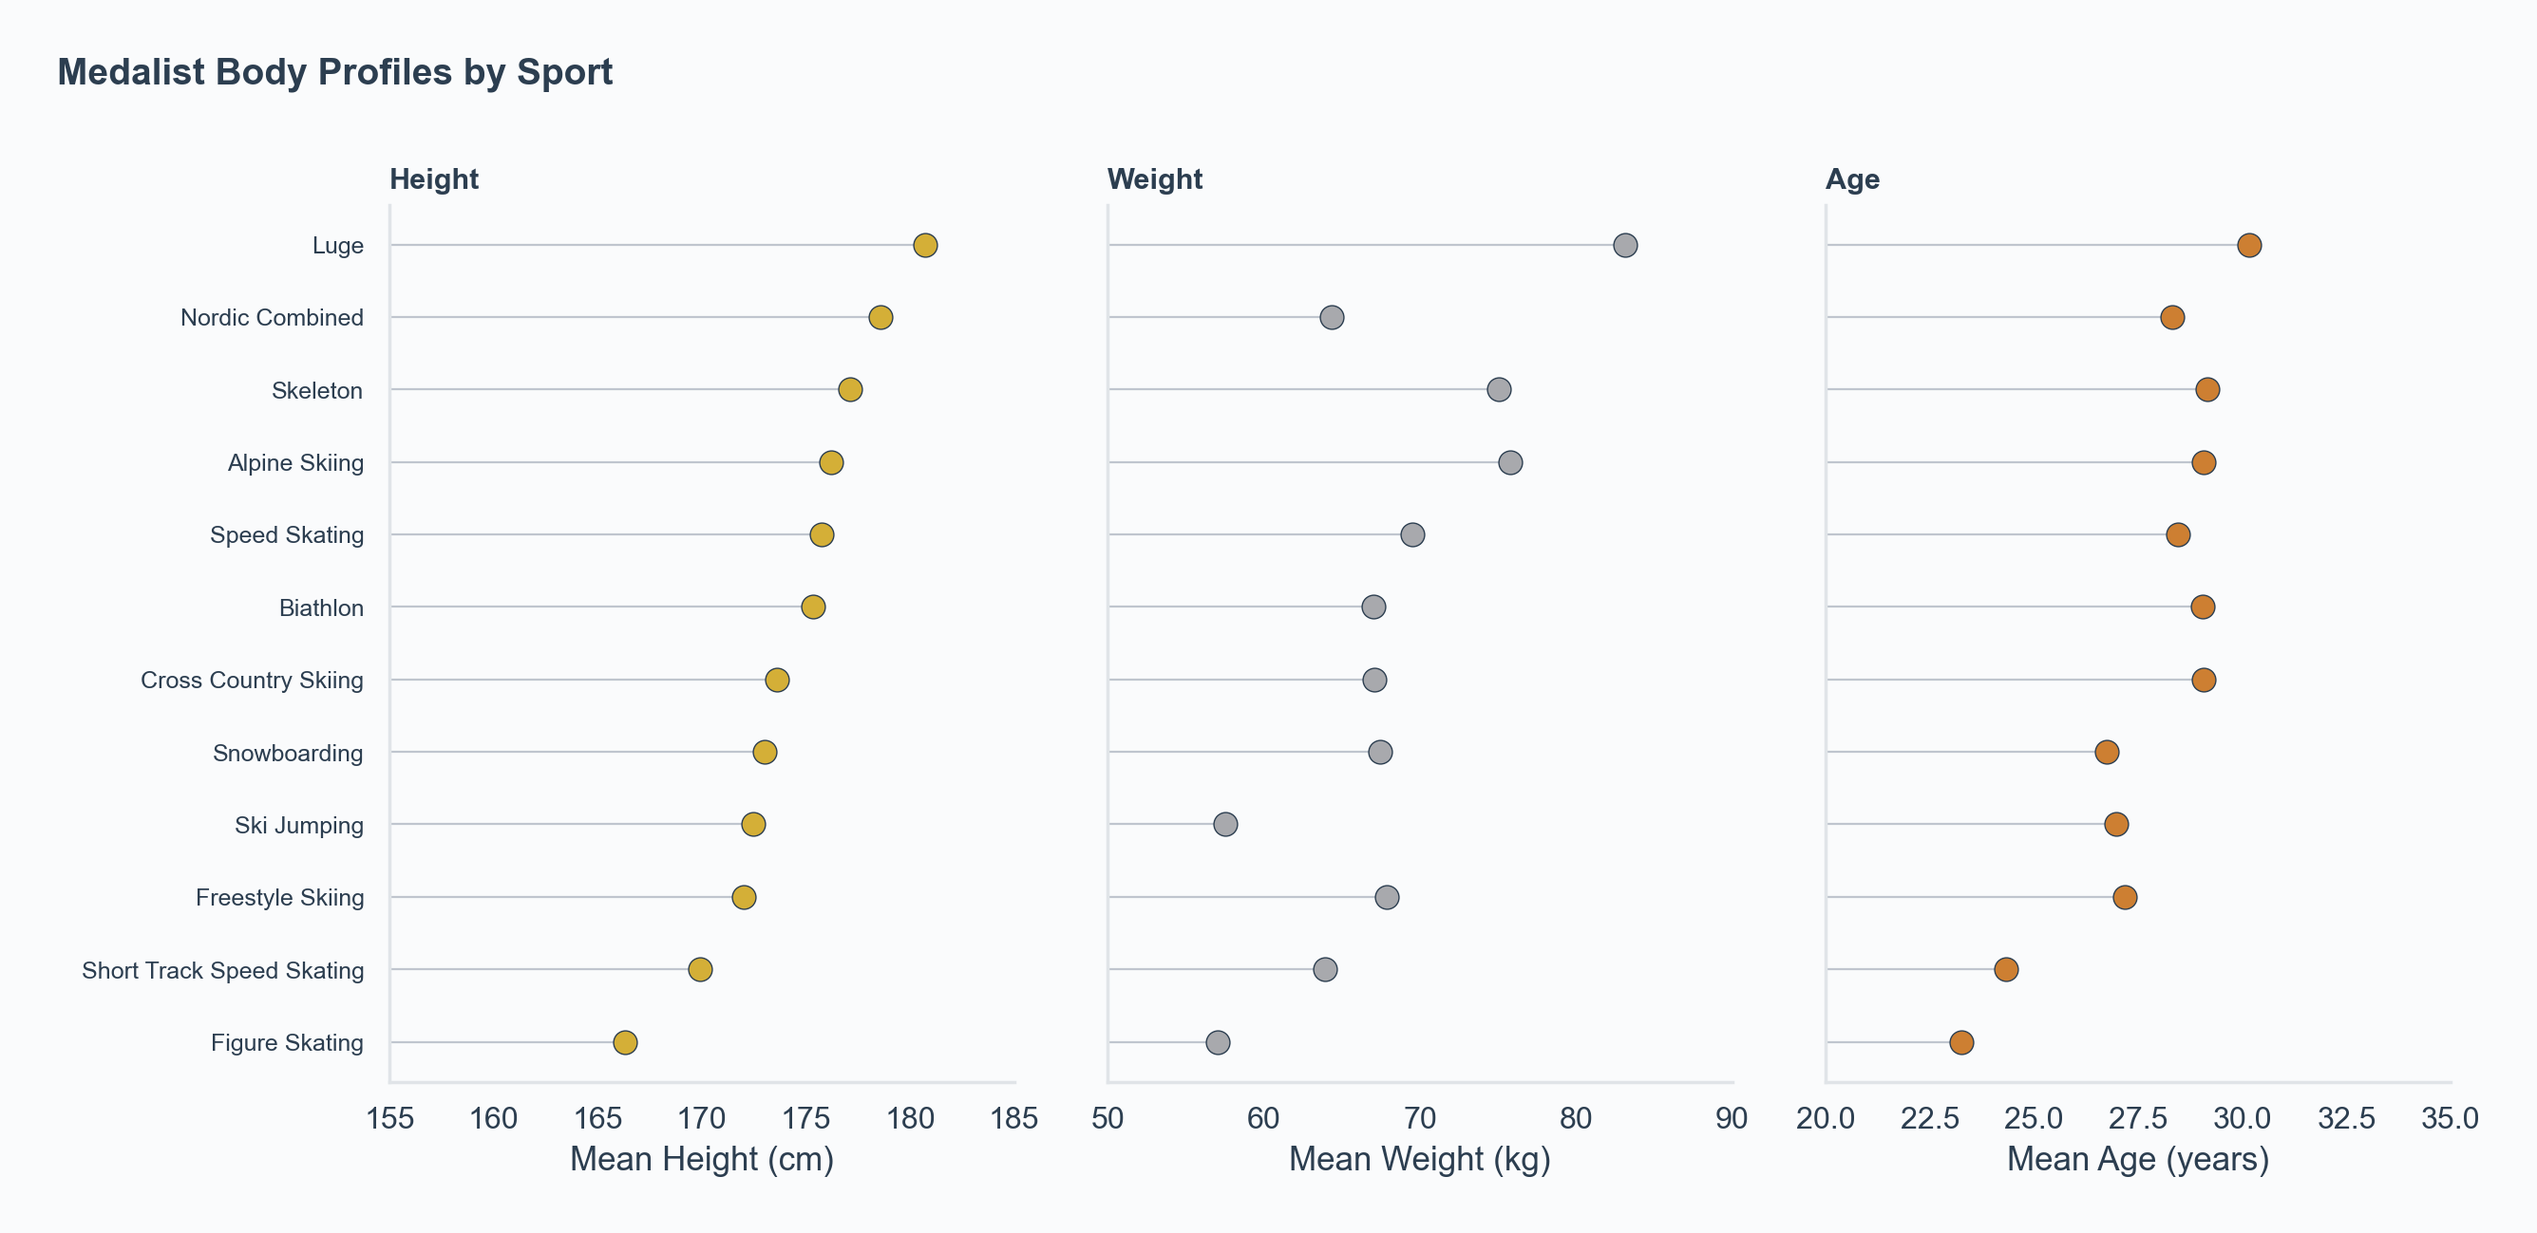
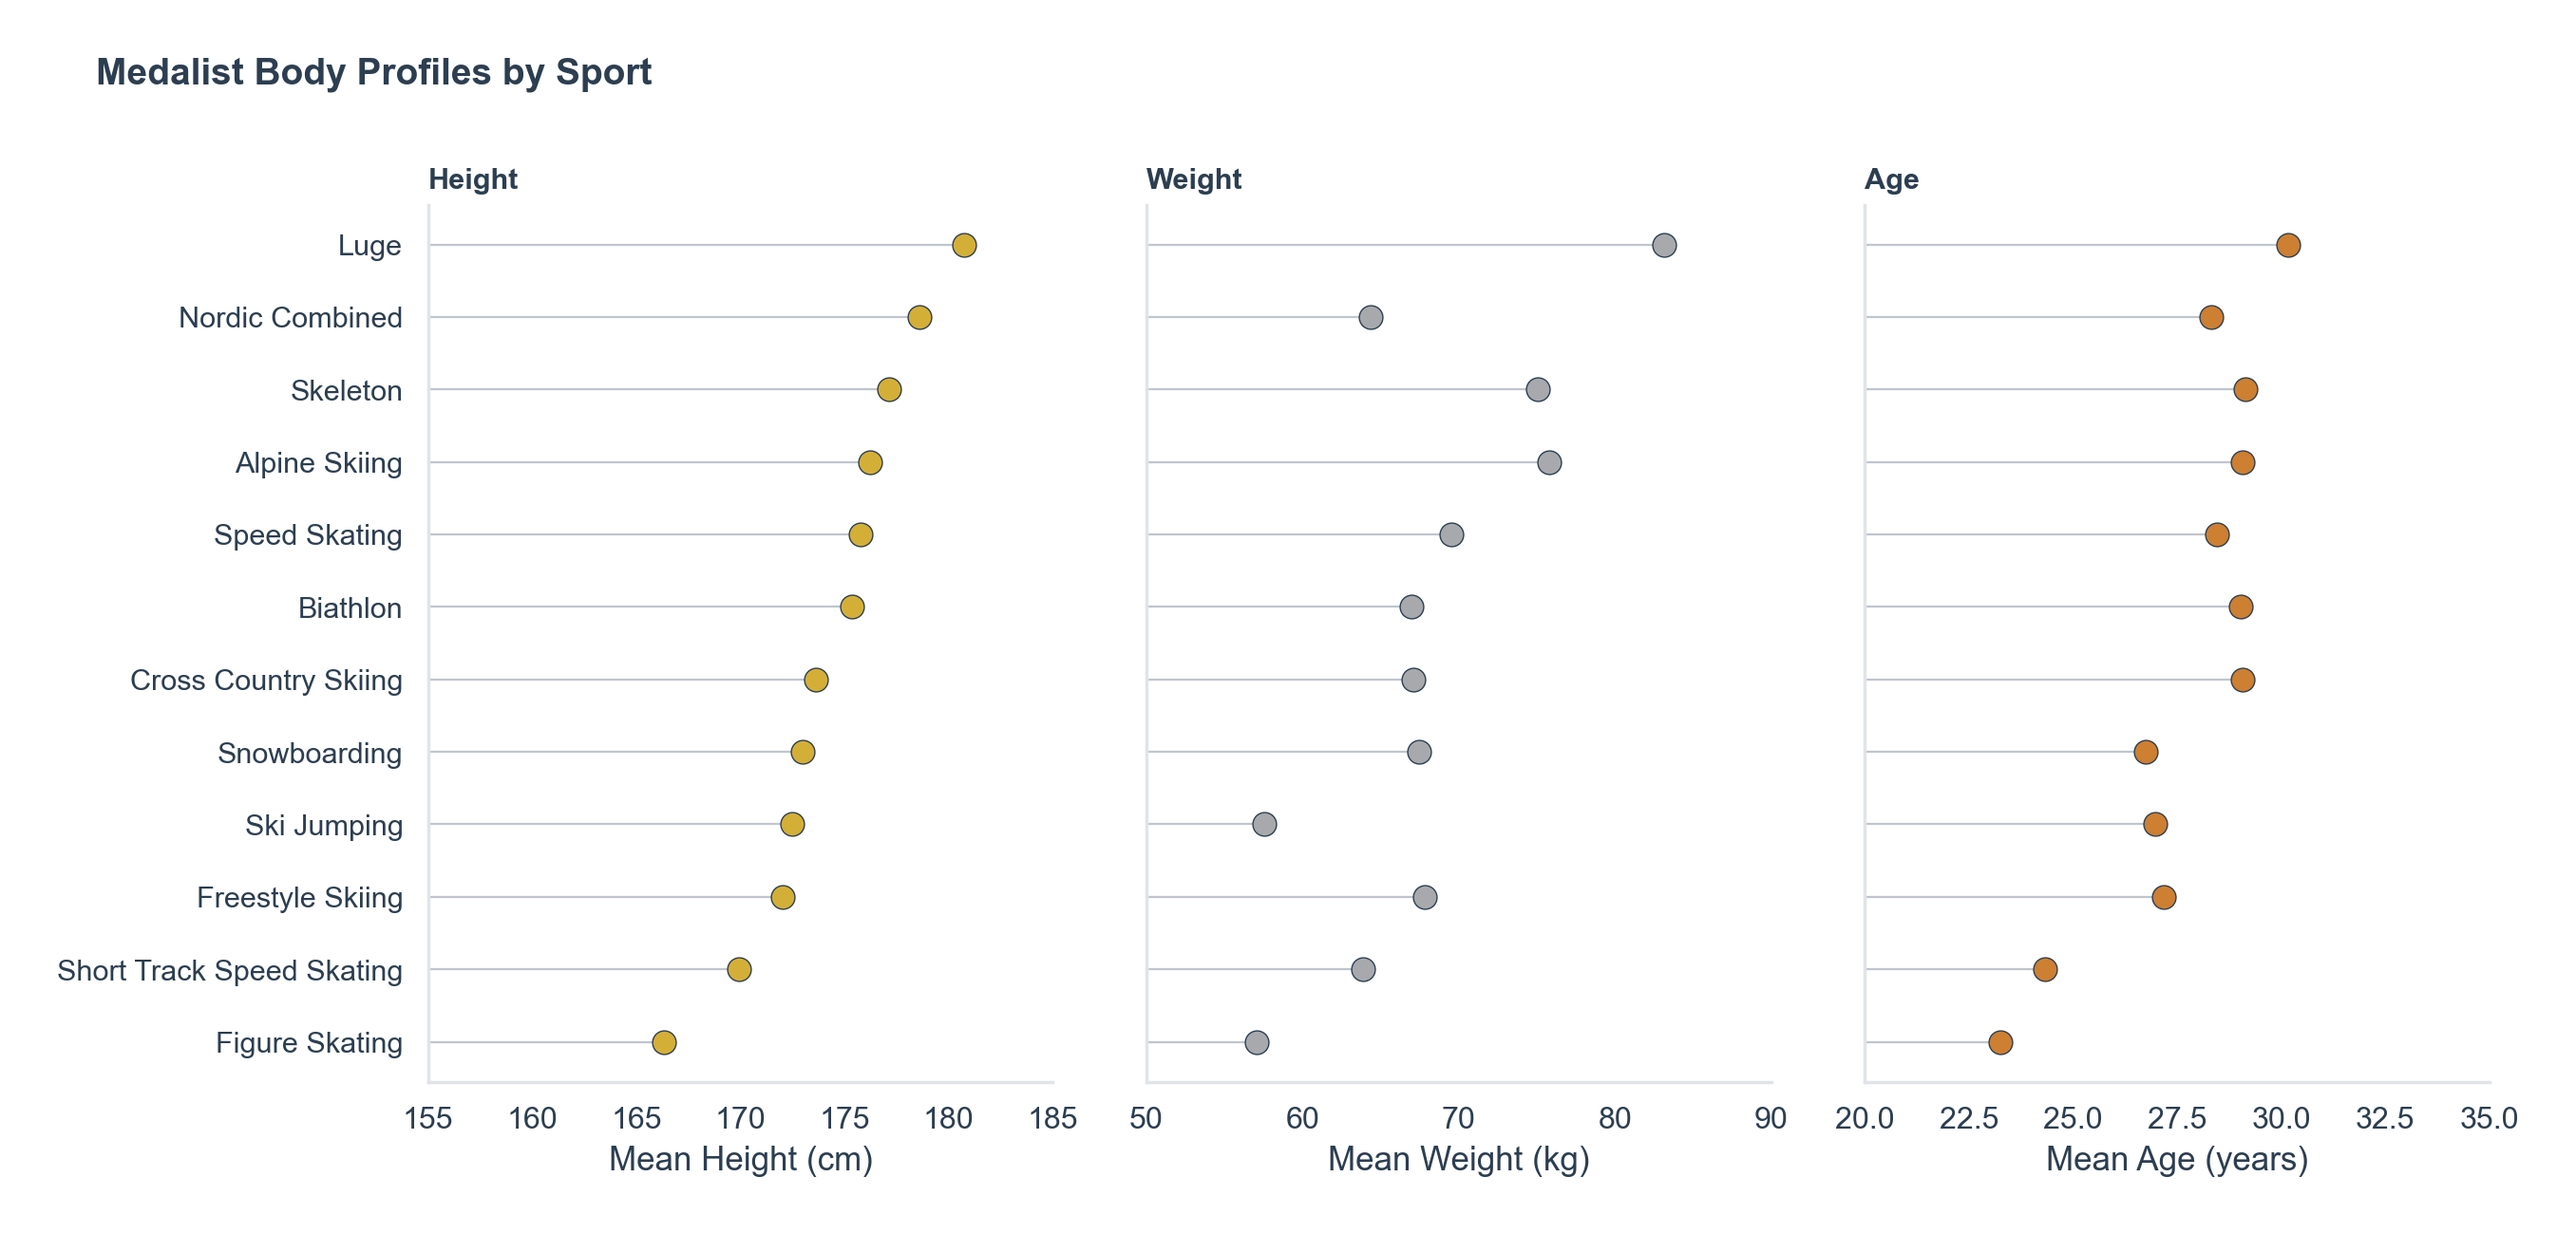
edits

diff --git a/analysis.py b/analysis.py
@@ -18,7 +18,7 @@ SILVER = "#A8A9AD"
 BRONZE = "#CD7F32"
 MUTED = "#BFC5CE"
 DARK = "#2C3E50"
-BG = "#FAFBFC"
+BG = "#FFFFFF"
 GRID_CLR = "#E0E4E8"
 
 TOP_N = 8
@@ -97,7 +97,9 @@ def fig_gdp_percap_timeseries(df, countries):
                  fontsize=14, fontweight="bold", pad=12)
     h1, l1 = ax.get_legend_handles_labels()
     h2, l2 = ax2.get_legend_handles_labels()
-    ax.legend(h1 + h2, l1 + l2, loc="upper right", fontsize=9)
+    ax.legend(h1 + h2, l1 + l2, loc="upper center",
+              bbox_to_anchor=(0.5, -0.18), ncol=2, fontsize=9)
+    fig.subplots_adjust(bottom=0.22)
     ax.spines["top"].set_visible(False)
     ax2.spines["top"].set_visible(False)
     save(fig, "01_gdp_percap_vs_medals")
@@ -160,7 +162,7 @@ def fig_height_weight_profile(df):
         ax1.plot([155, val], [i, i], color=MUTED, linewidth=0.8, zorder=1)
     ax1.set_xlim(155, 185)
     ax1.set_yticks(y_pos)
-    ax1.set_yticklabels(order, fontsize=9)
+    ax1.set_yticklabels(order, fontsize=11)
     ax1.set_xlabel("Mean Height (cm)")
     ax1.set_title("Height", fontsize=11, fontweight="bold")
 
